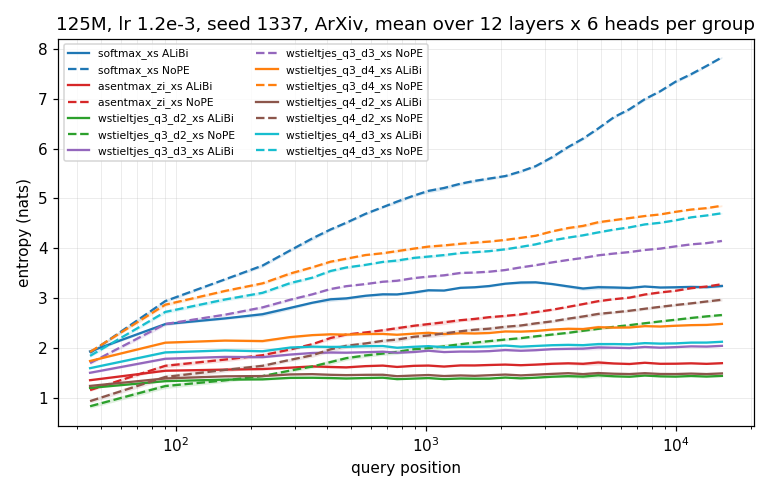
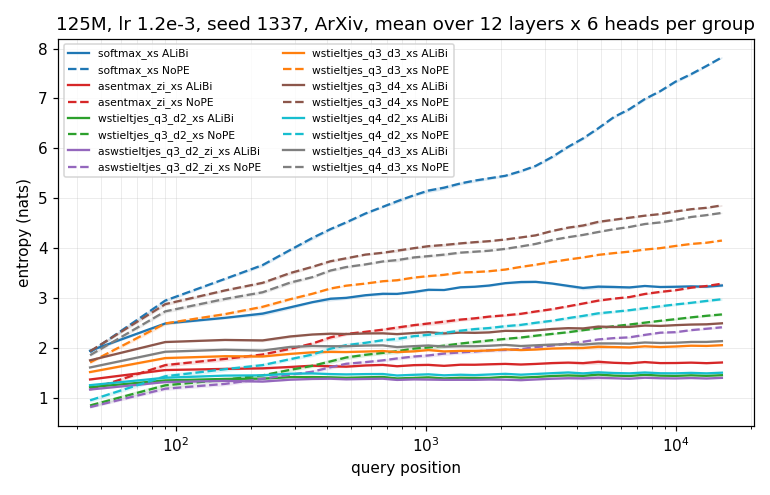
attn-viz e003 outcome + figures; e004 NoPE window schedule + per-position loss

diff --git a/viz_attention.py b/viz_attention.py
@@ -32,6 +32,8 @@ rows_pos = '1024,4096,16384'      # 1-based query positions (query index pos-1)
 row_docs = 2
 check_L = 2048                    # >0: loss of doc 0 at check_L through the wrapped vs the stock forward
 table_pos = '512,2048,8192,16384'
+nope_sched_a = 0.0                # e004: NoPE heads' q *= 1 + a ln(max(i+1, T0) / T0)  (window d/s; 1 for i < T0)
+sched_T0 = 2048
 device = 'cuda'
 for arg in sys.argv[1:]:
     k, v = arg.lstrip('-').split('=', 1)
@@ -83,7 +85,15 @@ def chunked_forward(self, x):
         q0 = q
         q = self._apply_scale(q, x)
         st[7] = q[0].float().norm(dim=-1) / q0[0].float().norm(dim=-1).clamp_min(1e-12)   # scalar per (h, i)
+    if nope_sched_a != 0.0:
+        pos = torch.arange(1, T + 1, device=x.device, dtype=torch.float32).clamp(min=sched_T0)
+        sch = 1.0 + nope_sched_a * torch.log(pos / sched_T0)                                  # (T,)
+        hm = (self.nape_slopes.float() == 0.0).to(x.device) if self.pos_emb == 'nape' else torch.ones(self.n_head, dtype=torch.bool, device=x.device)
+        mult = torch.where(hm[:, None], sch[None, :], torch.ones_like(sch)[None, :])        # (H, T)
+        st[7] = st[7] * mult
     qf, kf = q[0].float(), k[0].float()                              # (H, T, D)
+    if nope_sched_a != 0.0:
+        qf = qf * mult[:, :, None]                                   # fp32, no extra bf16 rounding
     y = torch.empty_like(v[0])
     fill = float('-inf') if self.attn_type in ('softmax', 'entmax') else -1e30
     for c0 in range(0, T, chunk):
@@ -152,6 +162,7 @@ with torch.no_grad():
     rows_p = np.zeros((min(row_docs, n_docs), NL, len(nope), len(rows_pos), L), dtype=np.float32)
     rows_s = np.zeros_like(rows_p)
     losses = []
+    loss_binned = np.zeros((n_docs, nb), dtype=np.float32)
     for d in range(n_docs):
         t0 = time.time()
         for l, a in enumerate(attns):
@@ -160,7 +171,11 @@ with torch.no_grad():
             a.rows_p = torch.zeros(len(nope), len(rows_pos), L); a.rows_s = torch.full((len(nope), len(rows_pos), L), float('nan'))
         x, y = doc(d, L)
         with ctx:
-            loss = model(x, targets=y)[1].item()
+            logits, lt = model(x, targets=y)
+        loss = lt.item()
+        tok = F.cross_entropy(logits[0].float(), y[0], reduction='none')        # (L,) per-position loss
+        loss_binned[d] = tok.view(nb, 64).mean(-1).cpu().numpy()
+        del logits, tok
         losses.append(loss)
         for l, a in enumerate(attns):
             total[:, l] += a.acc
@@ -172,6 +187,8 @@ with torch.no_grad():
     mean = (total / n_docs).cpu().numpy()
 
 res['loss_per_doc'] = losses
+res['loss_by_range'] = {f'{a}-{b}': float(loss_binned[:, a // 64:b // 64].mean()) for a, b in
+                        ((0, 2048), (2048, 4096), (4096, 8192), (8192, 16384), (2048, 16384)) if b <= L}
 # table: mean over the 64 query positions ending at each table position; per head (mean over docs) and per group
 # (mean over layers and heads of the group; SE over documents from the 64-position bins)
 groups = {'alibi': [h for h in range(H) if h not in nope], 'nope': nope}
@@ -187,7 +204,7 @@ for pos in table_pos:
                       'se': float(per_doc[:, j].std(ddof=1) / math.sqrt(n_docs)) if n_docs > 1 else None}
                   for j, s in enumerate(STATS)}
     res['table'][pos] = ent
-np.savez_compressed(os.path.join(save_dir, 'stats.npz'), mean=mean, binned=binned, stats=np.array(STATS),
+np.savez_compressed(os.path.join(save_dir, 'stats.npz'), mean=mean, binned=binned, stats=np.array(STATS), loss_binned=loss_binned,
                     slopes=slopes.numpy(), nope=np.array(nope))
 np.savez_compressed(os.path.join(save_dir, 'rows.npz'), p=rows_p, s=rows_s, rows_pos=np.array(rows_pos),
                     nope=np.array(nope))
@@ -197,4 +214,5 @@ for pos in table_pos:
     t = res['table'][pos]
     print(f"pos {pos:>5}: " + '  '.join(f"{g} support {t[g]['support']['mean']:.1f} k90 {t[g]['k90']['mean']:.1f} "
                                         f"H {t[g]['entropy']['mean']:.3f}" for g in groups if groups[g]), flush=True)
+print('loss by range', {k: round(v, 4) for k, v in res['loss_by_range'].items()}, flush=True)
 print('wrote', save_dir, flush=True)

diff --git a/research/experiments/attn-viz/e003.md b/research/experiments/attn-viz/e003.md
@@ -3,14 +3,14 @@ id: e003
 direction: attn-viz
 batch: b002
 parent: e001
-status: planned
+status: done
 created: 2026-11-09T21:45:00
-sha: null
+sha: 27483a3
 cluster: ascend
-jobs: []
+jobs: [8459148, 8459225]
 config: {rows: [aswstieltjes_q3_d2_zi_xs, asentmax_zi_xs], lr: 1.2e-3, seed: 1337, size: 125m, data: arxiv_long first 8 papers, L: 16384, chunk: 512, new_stat: scale, tier: debug-nextgen}
-metrics: {}
-gpu_hours: null
+metrics: {as_q3d2_nope_support_512_2k_8k_16k: [13.4, 17.6, 25.9, 30.6], as_q3d2_nope_support_16k_over_2k: 1.73, fixed_q3d2_nope_support_16k_over_2k: 1.76, as_q3d2_nope_scale_512_2k_8k_16k: [1.049, 1.132, 1.143, 1.142], asentmax_nope_scale_512_2k_8k_16k: [1.102, 1.199, 1.299, 1.332], arxiv16k_loss_8papers: {as_q3d2: 4.171, fixed_q3d2: 3.968, asentmax: 3.946}, predictions_hit: 3/7 (+2 partial)}
+gpu_hours: 0.19
 ---
 ## Hypothesis
 The user-approved follow-up (2026-11-09) is a per-query adaptive window with target "NoPE support flat in n". That
@@ -45,7 +45,56 @@ The new `scale` stat is the AS factor s on q per head and query position (1 for 
   and `figures/rows_aswstieltjes_q3_d2_zi_xs_L<l>H<h>.png`.
 
 ## Outcome
+Smoke 8459148 (debug-nextgen, 1 paper, 1:30) then array 8459225 (debug-nextgen): task 1 aswstieltjes 2:14, task 2
+asentmax 7:27, all COMPLETED 0:0; total 0.19 GPU-h. Self-check stock vs wrapped L=2048: +0.0009. The predictions above
+were written before the smoke; the smoke printed paper-0 NoPE support 17.2 -> 28.0 (2k -> 16k), not edited after.
+All rows lr 1.2e-3, seed 1337, 125M, exp NAPE slopes, 8 ArXiv papers at L=16384, means over 12 layers x 6 heads
+per group (+- SE over papers); 64-position window ending at each position.
+
+NoPE heads:
+
+| row | support 512 / 2k / 8k / 16k | k90 512 / 2k / 8k / 16k | entropy 512 / 2k / 8k / 16k | AS scale s 512 / 2k / 8k / 16k | first64 @16k | ArXiv loss@16k (8 papers) |
+|---|---|---|---|---|---|---|
+| wstieltjes_q3_d2_xs (e001) | 14.3 / 19.5 / 27.7 / 34.4 | 8.6 / 11.9 / 17.0 / 21.3 | 1.81 / 2.18 / 2.50 / 2.70 | 1 | 0.097 | 3.968 |
+| aswstieltjes_q3_d2_zi_xs | 13.4 / 17.6 / 25.9 / 30.6 (+-0.5) | 8.2 / 10.8 / 16.1 / 19.0 | 1.68 / 1.96 / 2.29 / 2.46 | 1.049 / 1.132 / 1.143 / 1.142 (+-0.014) | 0.150 | 4.171 |
+| asentmax_zi_xs (re-run) | 31.1 / 45.7 / 77.3 / 94.1 | 13.3 / 19.3 / 33.4 / 39.2 | 2.28 / 2.65 / 3.09 / 3.30 | 1.102 / 1.199 / 1.299 / 1.332 | 0.072 | 3.946 |
+
+ALiBi heads of aswstieltjes: support 8.2 / 8.0 / 8.5 / 8.3 (scale 1, AS applies only to the 6 NoPE heads 6..11).
+Per-layer NoPE AS scale for aswstieltjes at 2k / 16k: layers 0-4 and 8, 11 ~1.00-1.07 at both; layers 5, 6, 7, 9, 10
+1.17 / 1.40 / 1.31 / 1.37 / 1.23 at 2k and 1.22 / 1.40 / 1.35 / 1.34 / 1.24 at 16k. Per-layer NoPE support growth
+2k -> 16k: 1.34-2.73x (largest in layers 0 and 4, where s = 1.00); ASEntmax 1.72-2.78x.
+The geometric-bin curve (`figures/scale_vs_position.png`) rises slowly through 16k (~1.13 at 2k to ~1.18 at 16k);
+the 64-position table window at 16k reads 1.142.
+
+Figures (8 rows now, asentmax from the v2 pass, identical numbers): `figures/{support,k90,entropy,first64,local2k,
+dist}_vs_position.png`, new `figures/scale_vs_position.png`, `figures/rows_aswstieltjes_q3_d2_zi_xs_L{0H6,0H9,4H6}.png`.
+
+Prediction scoring:
+- AS NoPE support 16k/2k < 1.3 (35 %): **miss** (1.73).
+- < 1.76, flatter than fixed q3/d2 (60 %): **partial** (1.73 vs 1.76, inside the ~+-0.05 SE of the ratio).
+- NoPE scale at 16k > at 2k (80 %): **partial** (table 1.142 vs 1.132, within SE; binned curve does rise to ~1.18).
+- AS NoPE support at 2k < 19.5 (50 %): **hit** (17.6).
+- ALiBi support flat within +-10 % (85 %): **hit** (8.0-8.5).
+- ASEntmax re-run within 1 % of 94.1 (95 %): **hit** (94.12; every table entry identical to e001).
+- Cost <= 0.1 GPU-h (85 %): **miss** (0.19; the ASEntmax re-run alone is 8 x 48 s, the estimate forgot it).
+Score: 3/7 hit, 2 partial, 2 miss.
 
 ## Interpretation
+- The existing per-query adaptive window (AS on windowed Stieltjes, window d/s_i) did not learn an n-dependent
+  window. Its NoPE scale is ~1.13 at the 2048 train length and moves only a few percent more by 16k, i.e. the
+  effective window shrinks from 2/1.13 = 1.77 to ~1.70, while the support still grows 1.73x, the same rate as fixed
+  q3/d2 (1.76x). AS here acts as a per-layer constant temperature (5 of 12 layers use it), not as a length knob.
+- ASEntmax's scale grows more (1.20 -> 1.33, +11 %) yet its support grows 2.06x: neither AS map flattens support.
+  The AS functional form `1 + beta log(pos)^gamma` is trained only on positions < 2048, so nothing pushes it to
+  extrapolate the right amount.
+- Why the AS row's ArXiv loss is worse (4.171 on these papers vs 3.968 fixed) is not explained by support: its support
+  is slightly smaller at every position. More first64 mass at 16k (0.150 vs 0.097) is the one stat that differs
+  clearly; learnable-qd e001 already saw a 0.084 gap at ArXiv 2k (domain robustness), so it is not a length effect.
+- So "an adaptive window learned at T=2048" is not the mechanism that flattens support. The target itself (does
+  flat NoPE support help at 16k?) is untested; e004 tests it training-free.
 
 ## Next
+e004: impose a position-dependent NoPE window on the fixed q3/d2 checkpoint at inference,
+s(i) = 1 + a ln(max(i, 2048) / 2048) on the NoPE heads' q (window d/s), a in {0.05, 0.1, 0.2}: measure NoPE
+support vs position and ArXiv 16k loss. If some a flattens support and lowers loss, a trained n-dependent window
+is worth a 125M run (user decision, ~19 GPU-h); if flattening raises loss, flat support is the wrong target.

diff --git a/research/experiments/attn-viz/e004.md b/research/experiments/attn-viz/e004.md
@@ -1,0 +1,51 @@
+---
+id: e004
+direction: attn-viz
+batch: b002
+parent: e003
+status: planned
+created: 2026-11-09T22:05:00
+sha: null
+cluster: ascend
+jobs: []
+config: {row: wstieltjes_q3_d2_xs, lr: 1.2e-3, seed: 1337, size: 125m, data: arxiv_long first 8 papers, L: 16384, schedule: "NoPE q *= 1 + a ln(max(i, 2048)/2048)", a: [0, 0.05, 0.1, 0.2], tier: debug-nextgen}
+metrics: {}
+gpu_hours: null
+---
+## Hypothesis
+e003 showed the trained AS window does not shrink with n, so the target "NoPE support flat in n" was never reached.
+Test the target directly, training-free: on the fixed `wstieltjes_q3_d2_xs` checkpoint (lr 1.2e-3, seed 1337),
+narrow the NoPE heads' window with position past the train length, window_i = d / s(i),
+s(i) = 1 + a ln(max(i, 2048) / 2048) (s = 1 inside the train length, so nothing below 2048 changes). If dispersion of
+NoPE heads past 2k costs loss, the a that flattens support lowers ArXiv 16k loss; if the extra keys past 2k carry
+useful far context, flattening raises it.
+
+## Prediction (before submission)
+Calibration from e001's d sweep at q3 (NoPE support at 16k 34 / 126 / 274 for d 2 / 3 / 4: support ~ d^3) predicts
+a = 0.1 (s(16k) = 1.21) brings 16k support back to its 2k value (19.5). Within-model elasticity may differ from the
+across-model d sweep.
+- NoPE support at 16k decreases monotonically in a (0 > 0.05 > 0.1 > 0.2): 95 %.
+- a = 0.1: NoPE support at 16k within +-25 % of the a=0 value at 2k (19.5): 50 %.
+Loss = mean per-token loss over query positions 2048..16383 on the 8 papers ("tail loss"; positions < 2048 are
+unchanged by construction, and must match a = 0 exactly).
+- Some a in {0.05, 0.1, 0.2} lowers tail loss by >= 0.01 vs a = 0: 35 %.
+- a = 0.2 raises tail loss vs a = 0: 65 %.
+- Loss over positions 0..2047 identical across a (to 1e-4): 97 %.
+- Self-check at L=2048 unchanged by the schedule (|wrapped - stock| < 0.002): 99 %.
+- Cost (e003 measured 2:14 per 8-paper q3/d2 pass incl. load): 4 passes + smoke <= 0.2 GPU-h: 85 %.
+
+## Change
+- `viz_attention.py`: `--nope_sched_a`, `--sched_T0` (default 2048): multiply NoPE heads' q (fp32, after any AS) by
+  s(i); the `scale` stat records s. Defaults reproduce e001/e003 exactly.
+- Tier 2 (`debug-nextgen`): smoke a = 0.1, 1 paper (`STATS_DIR=attn_stats_smoke_sched`), then three single-task
+  jobs, `ROWS=wstieltjes_q3_d2_xs/lr1.2e-3`, `STATS_DIR=attn_stats_sched_a<a>`, plus a = 0 (needs the new
+  per-position loss; e001 logged only the whole-doc mean 3.968).
+- `viz_attention.py` also logs per-position loss (from full logits, 64-position bins in `stats.npz` `loss_binned`,
+  range means in `summary.json` `loss_by_range`).
+- Figure: `figures/sched_support_loss.png` (NoPE support vs position per a; per-position loss minus a = 0).
+
+## Outcome
+
+## Interpretation
+
+## Next
